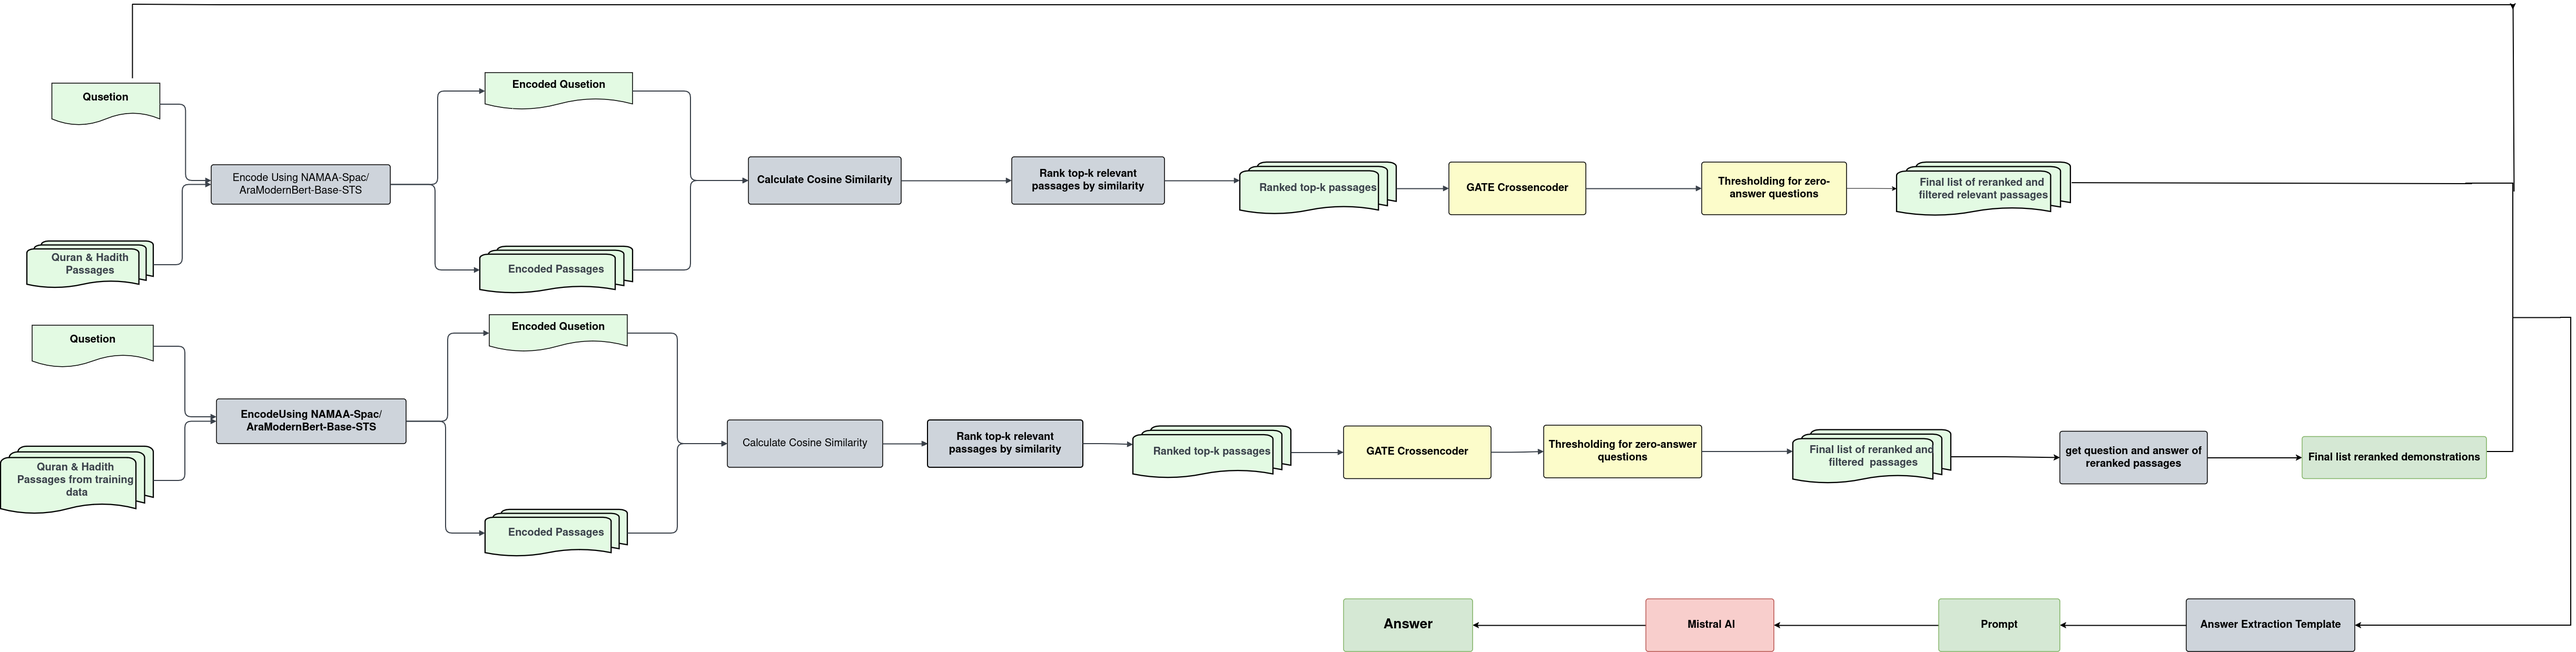
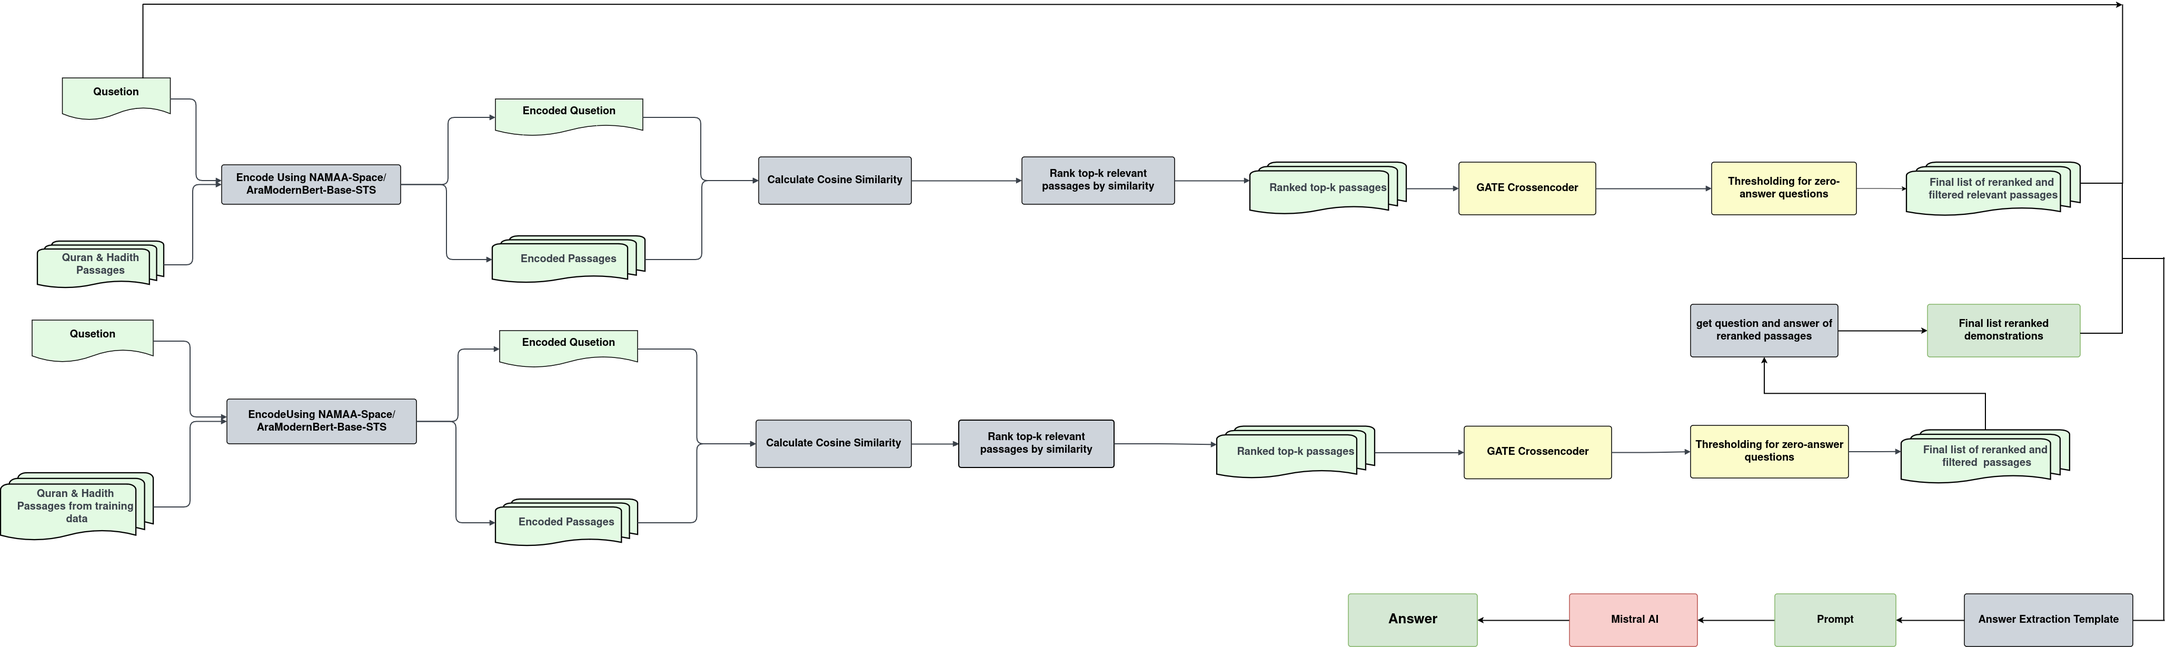
framework diagram

diff --git a/README.md b/README.md
@@ -118,7 +118,6 @@ This structured prompting enhances factual grounding and reduces hallucination.
 
 ---
 
-## ⚙ Implementation
 
 ### Requirements
 
@@ -131,5 +130,55 @@ This structured prompting enhances factual grounding and reduces hallucination.
 pip install huggingface_hub==0.13.4
 pip install -U sentence-transformers
 pip install faiss-cpu
-pip install -U google-generativeai
-pip install -U google-genai
+
+```
+
+## 🚀 Installation
+
+### Clone Repository
+
+```bash
+git clone https://github.com/Shymaa2611/End-to-end-Islamic-Question-Answering-System-Generation.git
+cd End-to-end-Islamic-Question-Answering-System-Generation
+
+```
+
+### Create Virtual Environment
+
+```bash
+
+python -m venv venv
+source venv/bin/activate
+venv\Scripts\activate
+
+```
+
+### Install Dependencies
+
+```bash
+
+pip install -r requirements.txt
+
+```
+## ▶ Running the System
+
+### Demonstration Selection
+
+```bash
+
+python src/in_Context_learning/retrieve_demonstrations.py
+
+```
+
+## 📊 Evaluation
+
+```bash
+
+python src/Evaluation/eval.py
+
+```
+
+## 📝 Conclusion
+
+This project introduces a structured, evidence-grounded Islamic QA framework that combines retrieval, reranking, in-context learning, and constrained LLM generation.
+The architecture ensures factual reliability, contextual relevance, and faithfulness to Qur’anic and Hadith sources while providing a scalable foundation for Arabic religious question answering systems.
